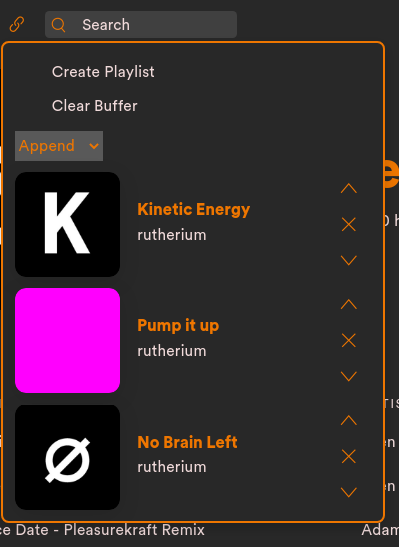
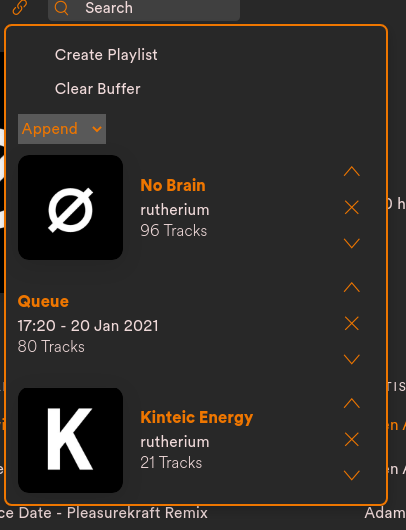
update README for queue

diff --git a/README.md b/README.md
@@ -1,6 +1,6 @@
 # Spicetify Copy
 
-Spicetify extension which allows you to copy playlists directly in Spotify
+Spicetify extension which allows you to copyand combine playlists/queue directly in Spotify.
 
 ## Preview
 Copy a single playlist:  
@@ -8,6 +8,9 @@ Copy a single playlist:
 
 Combine multiple playlist to a single big playlist:  
 ![Screenshot Crad](screenshot_card.png)
+
+Create a new playlist from Queue or copy into the buffer:
+![Screenshot Queue](screenshot_queue.png)
 
 ## Installation
 * Download and install [Spicetify](https://github.com/khanhas/spicetify-cli.git)
